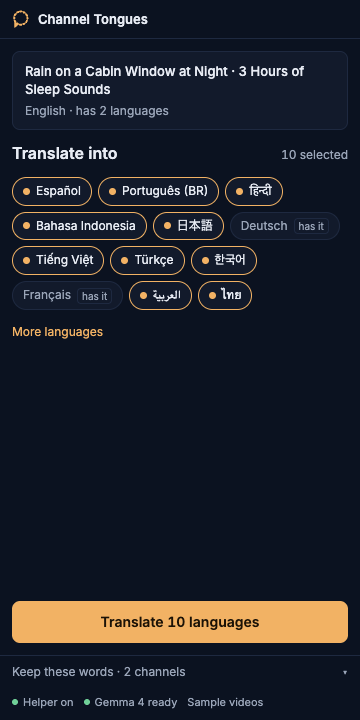
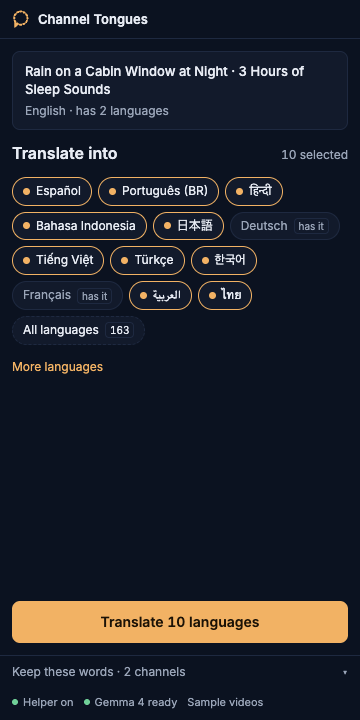
README and screenshots for translating into every language
Adds the 165-language run on a real video to the limits.

Changed region(s): [[0.0306, 0.4278, 0.3667, 0.5194]]

diff --git a/docs/index.html b/docs/index.html
@@ -92,7 +92,7 @@ cd channel-tongues &amp;&amp; make build</code></pre></li>
     </details>
     <details>
       <summary>Which languages are ticked, and why those?</summary>
-      <p>Spanish, Portuguese (Brazil), Hindi, Indonesian, Japanese, German, Vietnamese, Turkish, Korean, French, Arabic and Thai, ordered by YouTube audience size in DataReportal's early-2025 country estimates. Every other language is one search away.</p>
+      <p>Spanish, Portuguese (Brazil), Hindi, Indonesian, Japanese, German, Vietnamese, Turkish, Korean, French, Arabic and Thai, ordered by YouTube audience size in DataReportal's early-2025 country estimates. Every other language is one search away, and "All languages" ticks every one YouTube accepts.</p>
     </details>
     <details>
       <summary>How many videos a day?</summary>

diff --git a/README.md b/README.md
@@ -67,17 +67,19 @@ Batch runs only add languages a video lacks and never touch existing translation
 
 ## Languages and model
 
-The twelve pre-checked languages are, in order: Spanish, Portuguese (Brazil), Hindi, Indonesian, Japanese, German, Vietnamese, Turkish, Korean, French, Arabic and Thai, ordered by YouTube audience size in DataReportal's early-2025 country estimates. English is left out as the usual source language. More languages are one search away in the panel.
+The twelve pre-checked languages are, in order: Spanish, Portuguese (Brazil), Hindi, Indonesian, Japanese, German, Vietnamese, Turkish, Korean, French, Arabic and Thai, ordered by YouTube audience size in DataReportal's early-2025 country estimates. English is left out as the usual source language. More languages are one search away in the panel. "All languages" next to the chips ticks every language in the list, each one accepted by YouTube on a test video: 165 for an English video (`--langs all` on the command line); pressing it again goes back to the twelve.
 
 The helper uses `gemma4:26b` when you have downloaded it and `gemma4:e4b` otherwise. On an Apple M5 Max with 64 GB, both answered in about a second per language once loaded (twelve languages in 10 to 15 seconds); `gemma4:26b` made fewer mistakes in our tests, for example "Light Waves" became "gentle waves" instead of "waves of light". If your machine has 32 GB or more, run `ollama pull gemma4:26b` once. To try another model, set `TONGUES_MODEL`.
 
 ## Limits
 
 - Tags cannot be translated: YouTube keeps one set of tags per video.
+- YouTube accepts translations only in its own list of languages, and one code it does not accept makes the whole write fail with HTTP 400 `invalidVideoMetadata` ("The request metadata is invalid."). Channel Tongues offers only codes YouTube accepted on a test video. It refused, among others, Cebuano (`ceb`), Chichewa (`ny`), Norwegian Nynorsk (`nn`), Divehi (`dv`) and Central Kurdish (`ckb`).
+- "All languages" is slow and Gemma knows many of the rarer languages only a little. On a real English video, 165 languages took 48 minutes with `gemma4:26b` on an M5 Max (twelve take about 25 seconds). 81 passed every check and went out in one write, which costs the same quota as twelve. 84 were held back as Check this one: 17 the model could not translate at all (Abkhazian, Afar, Cherokee, Cree, Navajo, Wolof and others), 11 came out in a related language (Zulu for Ndebele, Kinyarwanda for Rundi), 42 added words to the title, and 6 titles ran over 100 characters. Of the twelve pre-checked languages, 11 passed. Have someone who reads a rare language look before you tick it.
 - YouTube's free daily allowance covers about 190 publishes a day. Channel Tongues stops at about 170 to leave room for reading, and says when the limit resets (midnight Pacific).
 - A Google project in Testing status signs you out after seven days; sign in again from the panel.
 - The model can still get the meaning wrong while passing every check: an ambiguous English phrase can come out in the wrong sense. Read before you publish. Small models drift more in rarer languages; when a check fails, the language is marked instead of published.
-- The read-back line is a second opinion from the same model, so it shares its blind spots. Only words added to the title untick a card; words found only in the description stay marked in the line ("description adds: ...") and the card stays ticked. A word that the read-backs of at least half the languages share (and at least three) is taken as the read-back's own wording, not a change, and is not marked: on one real video the read-back said "created" for "made" in 13 of 15 languages. On three sample videos in twelve languages, 5 of 36 cards were unticked this way: real changes such as a "mountain" cabin in Turkish, and false alarms such as "rain falling" in Korean. It costs about two seconds per language: twelve languages take about 25 seconds instead of 12. The word test runs for English originals; for other languages the line is shown and you judge it.
+- The read-back line is a second opinion from the same model, so it shares its blind spots. Only words added to the title untick a card; words found only in the description stay marked in the line ("description adds: ...") and the card stays ticked. A description word that the read-backs of at least half the languages share (and at least three) is taken as the read-back's own wording, not a change, and is not marked: on one real video the read-back said "created" for "made" in 13 of 15 languages. On three sample videos in twelve languages, 5 of 36 cards were unticked this way: real changes such as a "mountain" cabin in Turkish, and false alarms such as "rain falling" in Korean. It costs about two seconds per language: twelve languages take about 25 seconds instead of 12. The word test runs for English originals; for other languages the line is shown and you judge it.
 - The video needs its "Title and description language" set in Studio before YouTube accepts translations. The panel tells you where.
 
 ## FAQ
